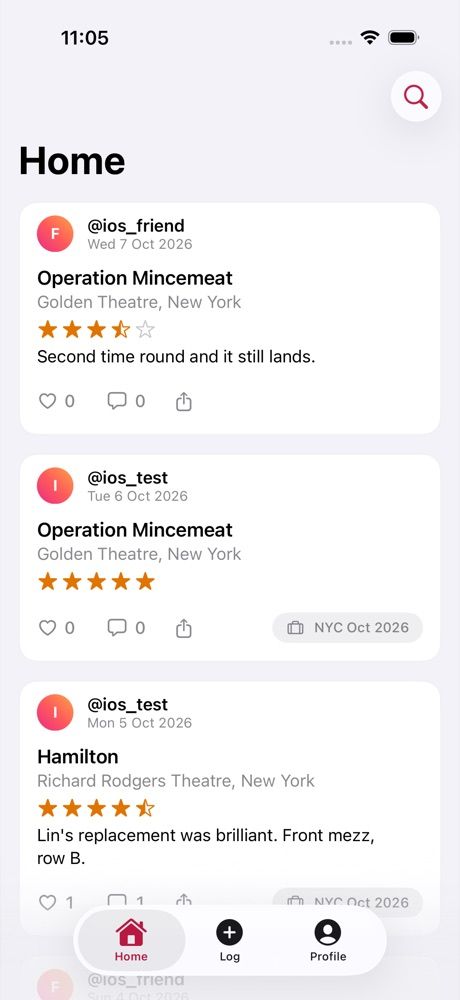
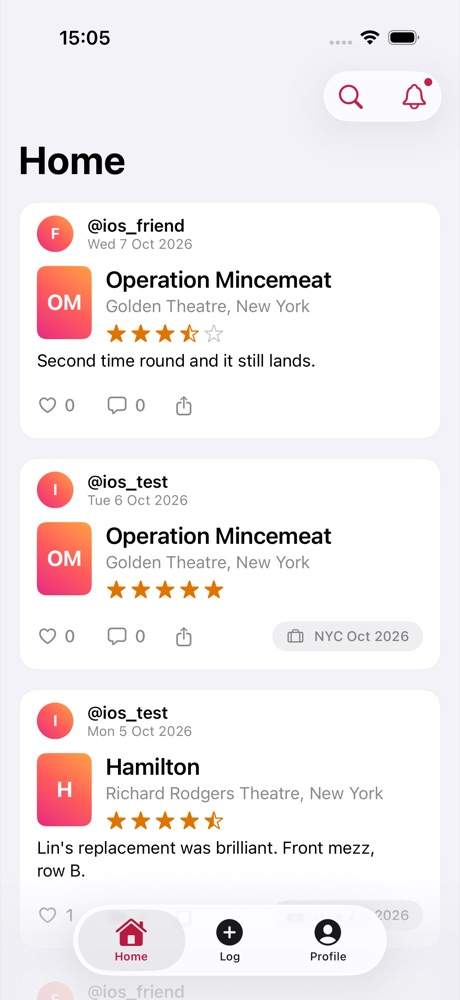
Add initials posters to text-only iOS feed posts

diff --git a/apps/ios/Stubbed/Screens/Home/PostCard.swift b/apps/ios/Stubbed/Screens/Home/PostCard.swift
@@ -4,7 +4,7 @@ import SwiftUI
 /// the photo at the card's full width, then the show (title, venue and
 /// stars together) and the note, and one footer row with the like and
 /// comment counts on the left and its trip on the right. Without a photo
-/// it's a text post. The whole card opens the show; the avatar, counts and trip
+/// it's a text post with an initials poster. The whole card opens the show; the avatar, counts and trip
 /// pills are their own targets. Used by the feed, profiles and trips.
 struct PostCard: View {
   let entry: Entry
@@ -122,16 +122,21 @@ struct PostCard: View {
   /// Title, where and stars together, then the note.
   private var show: some View {
     VStack(alignment: .leading, spacing: Space.xs) {
-      VStack(alignment: .leading, spacing: 2) {
-        Text(entry.show.title)
-          .font(.headline)
-          .foregroundStyle(.primary)
-        Text([entry.whereText, inTrip != nil ? date : nil].compactMap { $0 }.joined(separator: " · "))
-          .font(.subheadline)
-          .foregroundStyle(.secondary)
-      }
-      if let rating = entry.rating {
-        RatingStars(value: rating, size: 15).padding(.vertical, 2)
+      HStack(alignment: .top, spacing: Space.m) {
+        if photo == nil { Poster(title: entry.show.title, width: 48, height: 64) }
+        VStack(alignment: .leading, spacing: Space.xs) {
+          VStack(alignment: .leading, spacing: 2) {
+            Text(entry.show.title)
+              .font(photo == nil ? .title3.bold() : .headline)
+              .foregroundStyle(.primary)
+            Text([entry.whereText, inTrip != nil ? date : nil].compactMap { $0 }.joined(separator: " · "))
+              .font(.subheadline)
+              .foregroundStyle(.secondary)
+          }
+          if let rating = entry.rating {
+            RatingStars(value: rating, size: 15).padding(.vertical, 2)
+          }
+        }
       }
       if let note = entry.note {
         Text(note)

diff --git a/apps/web/src/lib/design-system.ts b/apps/web/src/lib/design-system.ts
@@ -226,7 +226,7 @@ export const IOS_COMPONENTS = [
   { name: "ActivityHeatmap", file: "Screens/Insights/ActivityHeatmap.swift", notes: "Monday-first yearly grid, scrollable horizontally. Chart cells have visual day selection and a full-size native calendar picker alternative for VoiceOver." },
   { name: "Screen", file: "Design/Screen.swift", notes: "A scrolling screen on the grouped background with a large (or inline) title and room above the tab bar. For screens that aren't lists, like the feed." },
   { name: ".groupedCard()", file: "Design/Theme.swift", notes: "The inset grouped surface: secondary grouped background, 16pt continuous corners, 1pt stroke, no shadow." },
-  { name: "PostCard", file: "Screens/Home/PostCard.swift", notes: "A feed post, photo first. One tap target with `CardPressStyle`; the avatar, counts and trip tag push through the router (a `NavigationLink` inside a List row would gain a chevron)." },
+  { name: "PostCard", file: "Screens/Home/PostCard.swift", notes: "A feed post, photo first; text-only posts have a 48×64 initials poster beside a bold title3 show heading. One tap target with `CardPressStyle`; the avatar, counts and trip tag push through the router (a `NavigationLink` inside a List row would gain a chevron)." },
   { name: "EntryRow", file: "Screens/Entry/EntryList.swift", notes: "A diary or trip row in a List: 48×64 poster, headline title, `venue · date`, stars or \"Going\", then trips and privacy as caption metadata." },
   { name: "Poster", file: "Design/Components.swift", notes: "The show's photo, or its initials in white bold on `Palette.sweep`, at 8pt continuous corners." },
   { name: "Avatar", file: "Design/Components.swift", notes: "Circular profile photo, or the first letter in white bold on `Palette.sweep`. Your own avatar on the Profile tab wears a 2.5pt sweep ring." },

diff --git a/docs/DECISIONS.md b/docs/DECISIONS.md
@@ -723,3 +723,6 @@ An owner-only Profile link opens `/app/insights/share` with a period selector an
 
 ### 2026-11-01: Show the attached photo on an owner's entry (#126)
 The entry Form leads with the existing signed photo at 4:5, with no row insets so the system grouped section supplies its corners. Entries without an attachment offer a quiet Add a photo row that opens the existing editor. The display reuses the private-bucket signed URL already loaded for sharing; it adds no storage or privacy paths.
+
+### 2026-11-01: Give text-only feed posts an initials poster (#127)
+Posts without a photo use the existing 48×64 Poster beside the show title, venue and stars. Their title uses bold title3 to lead the smaller handle, while notes retain the full card width. Photo posts retain their full-width 4:5 image and headline title. This brings the feed into line with the existing iOS design rule and diary/trip poster treatment.
